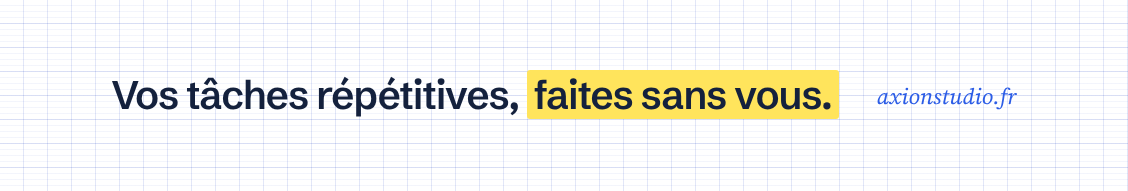
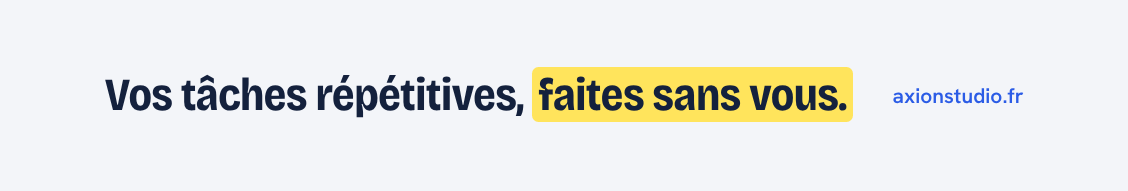
marketing: bannières LinkedIn et Google dans le style « le temps rendu »
- generate.mjs : fond gris bleuté, Bricolage Grotesque et Hanken
  Grotesk, surligneur, carte « Temps rendu chaque semaine » avec la
  semaine type hachurée (profil LinkedIn, publication Google)
- 6 visuels régénérés en taille exacte et en @2x (logo inchangé)
- polices Schibsted Grotesk et Source Serif 4 retirées : plus rien ne
  les utilise ; charte, passation et README mis à jour

Claude-Session: https://claude.ai/code/session_019bF3gSjhyBtiLCpN3yagxy

diff --git a/marketing/banners/google-publication-audit-1200x900.html b/marketing/banners/google-publication-audit-1200x900.html
@@ -1,25 +1,49 @@
 <!doctype html><html lang="fr"><head><meta charset="utf-8"><style>
-@font-face{font-family:SG;src:url(file:///home/user/axion-studio/node_modules/@fontsource-variable/schibsted-grotesk/files/schibsted-grotesk-latin-wght-normal.woff2);font-weight:100 900}
-@font-face{font-family:SS;src:url(file:///home/user/axion-studio/node_modules/@fontsource-variable/source-serif-4/files/source-serif-4-latin-wght-normal.woff2);font-weight:100 900}
-@font-face{font-family:SS;font-style:italic;src:url(file:///home/user/axion-studio/node_modules/@fontsource-variable/source-serif-4/files/source-serif-4-latin-wght-italic.woff2);font-weight:100 900}
+@font-face{font-family:BG;src:url(file:///home/user/axion-studio/node_modules/@fontsource-variable/bricolage-grotesque/files/bricolage-grotesque-latin-wdth-normal.woff2);font-weight:200 800;font-stretch:75% 100%}
+@font-face{font-family:HG;src:url(file:///home/user/axion-studio/node_modules/@fontsource-variable/hanken-grotesk/files/hanken-grotesk-latin-wght-normal.woff2);font-weight:100 900}
 *{box-sizing:border-box;margin:0}
 html,body{width:1200px;height:900px;overflow:hidden}
-body{font-family:SG,Arial,sans-serif;color:#14213d;background:#ffffff;position:relative;
-background-image:linear-gradient(rgba(35,70,200,.13) 1px,transparent 1px),linear-gradient(90deg,rgba(35,70,200,.13) 1px,transparent 1px),linear-gradient(rgba(35,70,200,.055) 1px,transparent 1px);
-background-size:32px 32px,32px 32px,32px 8px;background-position:-1px -1px}
-.margin{position:absolute;top:0;bottom:0;left:150px;width:3px;background:rgba(217,61,99,.75)}
+body{font-family:HG,Arial,sans-serif;color:#14213d;background:#f3f5f9;position:relative}
 .brand{display:flex;align-items:center;gap:.45em;font-weight:600;letter-spacing:-.01em}
-.h{font-weight:600;letter-spacing:-.03em;line-height:1.02;text-wrap:balance}
-.serif{font-family:SS,Georgia,serif;color:#56627d}
-.note{font-family:SS,Georgia,serif;font-style:italic;color:#2b5ce6}
-.mark{background:#ffe45c;padding:0 .18em;border-radius:3px}
-.pill{display:inline-flex;align-items:center;background:#2b5ce6;color:#fff;border-radius:10px;font-weight:600}
+.h{font-family:BG,'Arial Narrow',sans-serif;font-weight:700;font-stretch:85%;letter-spacing:-.02em;line-height:1.02;text-wrap:balance}
+.lead{color:#56627d;line-height:1.45}
+.muted{color:#56627d}
+.eyebrow{color:#2b5ce6;font-weight:600;letter-spacing:.08em;text-transform:uppercase}
+.mark{background:#ffe45c;color:#14213d;padding:0 .14em;border-radius:.14em}
+.card{background:#ffffff;border:1px solid #d9e0ec;border-radius:18px}
+.day{font-size:.72em;font-weight:600;letter-spacing:.06em;text-transform:uppercase;color:#56627d;text-align:center}
+.blk{font-size:.78em;line-height:1.25;padding:.45em .5em;border:1px solid #d9e0ec;border-radius:.6em;background:#f3f5f9}
+.hatch{background:repeating-linear-gradient(-45deg,transparent 0 6px,#c3cde0 6px 7px),#ffffff;color:#56627d}
+.hatch s{text-decoration-color:#2b5ce6;text-decoration-thickness:1.5px}
+.pill{display:inline-flex;align-items:center;background:#2b5ce6;color:#fff;border-radius:999px;font-weight:600}
 .abs{position:absolute}
-</style></head><body><div class="margin"></div>
-      <div class="abs" style="left:200px;top:110px;right:100px">
-        <div class="brand" style="font-size:32px"><svg viewBox="0 0 210 175" height="46" aria-hidden="true"><g stroke="#2b5ce6" stroke-width="9" stroke-linecap="round"><line x1="66" y1="25" x2="23" y2="81"/><line x1="23" y1="81" x2="128" y2="81"/><line x1="128" y1="81" x2="68" y2="150"/></g><g fill="#2b5ce6"><circle cx="66" cy="25" r="18"/><circle cx="23" cy="81" r="18"/><circle cx="128" cy="81" r="18"/><circle cx="68" cy="150" r="18"/></g><path d="M95 22H148L190 86L148 152H95" fill="none" stroke="#14213d" stroke-width="18" stroke-linejoin="round"/></svg>Axion Studio</div>
-        <p class="h" style="font-size:84px;margin-top:40px">Audit <span class="mark">gratuit</span><br>de 30 minutes</p>
-        <p class="serif" style="font-size:32px;margin-top:30px;line-height:1.45">On repère ensemble les tâches répétitives qui vous coûtent du temps, et ce qui peut être automatisé.</p>
-        <p style="font-size:28px;margin-top:34px;line-height:1.6">Sans engagement · Projets dès 150 € · Réponse sous 48 h ouvrées</p>
+</style></head><body>
+      <div class="abs" style="left:90px;top:96px;width:560px">
+        <div class="brand" style="font-size:28px"><svg viewBox="0 0 210 175" height="38" aria-hidden="true"><g stroke="#2b5ce6" stroke-width="9" stroke-linecap="round"><line x1="66" y1="25" x2="23" y2="81"/><line x1="23" y1="81" x2="128" y2="81"/><line x1="128" y1="81" x2="68" y2="150"/></g><g fill="#2b5ce6"><circle cx="66" cy="25" r="18"/><circle cx="23" cy="81" r="18"/><circle cx="128" cy="81" r="18"/><circle cx="68" cy="150" r="18"/></g><path d="M95 22H148L190 86L148 152H95" fill="none" stroke="#14213d" stroke-width="18" stroke-linejoin="round"/></svg>Axion Studio</div>
+        <p class="h" style="font-size:96px;margin-top:40px">Audit <span class="mark">gratuit</span> de 30 minutes</p>
+        <p class="lead" style="font-size:28px;margin-top:28px">On repère ensemble les tâches répétitives qui vous coûtent du temps, et ce qui peut être automatisé.</p>
+        <p style="font-size:24px;margin-top:30px;line-height:1.7">Sans engagement<br>Projets dès 150 €<br>Réponse sous 48 h ouvrées</p>
       </div>
-      <p class="abs pill" style="left:200px;bottom:100px;font-size:30px;padding:18px 30px">Réserver sur axionstudio.fr/contact</p></body></html>
+      <div class="abs" style="right:80px;top:200px"><div class="card" style="font-size:17px;width:440px;padding:1.1em 1.2em 1.2em">
+  <p class="muted" style="font-size:.85em">Temps rendu chaque semaine</p>
+  <p class="h" style="font-size:3.1em;margin-top:.12em;line-height:1.1"><span class="mark">2 h 15</span></p>
+  <div style="display:grid;grid-template-columns:repeat(5,1fr);gap:.4em;margin-top:.9em;align-items:start">
+    <div style="display:grid;gap:.4em">
+      <p class="day">Lun</p>
+      <p class="blk" style="min-height:2.6em">Client</p><p class="blk hatch" style="min-height:3.5454545454545454em"><s>Commandes</s></p>
+    </div><div style="display:grid;gap:.4em">
+      <p class="day">Mar</p>
+      <p class="blk" style="min-height:2.6em">Chantier</p><p class="blk hatch" style="min-height:2.8636363636363633em"><s>Relances</s></p>
+    </div><div style="display:grid;gap:.4em">
+      <p class="day">Mer</p>
+      <p class="blk hatch" style="min-height:4.227272727272727em"><s>E-mails</s></p>
+    </div><div style="display:grid;gap:.4em">
+      <p class="day">Jeu</p>
+      <p class="blk" style="min-height:2.6em">Devis</p><p class="blk" style="min-height:3.090909090909091em">Factures</p>
+    </div><div style="display:grid;gap:.4em">
+      <p class="day">Ven</p>
+      <p class="blk" style="min-height:2.6em">Chantier</p><p class="blk" style="min-height:2.409090909090909em">Agenda</p>
+    </div>
+  </div>
+</div></div>
+      <p class="abs pill" style="left:90px;bottom:90px;font-size:28px;padding:20px 34px">Réserver sur axionstudio.fr/contact</p></body></html>

diff --git a/marketing/banners/linkedin-profil-1584x396.html b/marketing/banners/linkedin-profil-1584x396.html
@@ -1,24 +1,47 @@
 <!doctype html><html lang="fr"><head><meta charset="utf-8"><style>
-@font-face{font-family:SG;src:url(file:///home/user/axion-studio/node_modules/@fontsource-variable/schibsted-grotesk/files/schibsted-grotesk-latin-wght-normal.woff2);font-weight:100 900}
-@font-face{font-family:SS;src:url(file:///home/user/axion-studio/node_modules/@fontsource-variable/source-serif-4/files/source-serif-4-latin-wght-normal.woff2);font-weight:100 900}
-@font-face{font-family:SS;font-style:italic;src:url(file:///home/user/axion-studio/node_modules/@fontsource-variable/source-serif-4/files/source-serif-4-latin-wght-italic.woff2);font-weight:100 900}
+@font-face{font-family:BG;src:url(file:///home/user/axion-studio/node_modules/@fontsource-variable/bricolage-grotesque/files/bricolage-grotesque-latin-wdth-normal.woff2);font-weight:200 800;font-stretch:75% 100%}
+@font-face{font-family:HG;src:url(file:///home/user/axion-studio/node_modules/@fontsource-variable/hanken-grotesk/files/hanken-grotesk-latin-wght-normal.woff2);font-weight:100 900}
 *{box-sizing:border-box;margin:0}
 html,body{width:1584px;height:396px;overflow:hidden}
-body{font-family:SG,Arial,sans-serif;color:#14213d;background:#ffffff;position:relative;
-background-image:linear-gradient(rgba(35,70,200,.13) 1px,transparent 1px),linear-gradient(90deg,rgba(35,70,200,.13) 1px,transparent 1px),linear-gradient(rgba(35,70,200,.055) 1px,transparent 1px);
-background-size:32px 32px,32px 32px,32px 8px;background-position:-1px -1px}
-.margin{position:absolute;top:0;bottom:0;left:430px;width:3px;background:rgba(217,61,99,.75)}
+body{font-family:HG,Arial,sans-serif;color:#14213d;background:#f3f5f9;position:relative}
 .brand{display:flex;align-items:center;gap:.45em;font-weight:600;letter-spacing:-.01em}
-.h{font-weight:600;letter-spacing:-.03em;line-height:1.02;text-wrap:balance}
-.serif{font-family:SS,Georgia,serif;color:#56627d}
-.note{font-family:SS,Georgia,serif;font-style:italic;color:#2b5ce6}
-.mark{background:#ffe45c;padding:0 .18em;border-radius:3px}
-.pill{display:inline-flex;align-items:center;background:#2b5ce6;color:#fff;border-radius:10px;font-weight:600}
+.h{font-family:BG,'Arial Narrow',sans-serif;font-weight:700;font-stretch:85%;letter-spacing:-.02em;line-height:1.02;text-wrap:balance}
+.lead{color:#56627d;line-height:1.45}
+.muted{color:#56627d}
+.eyebrow{color:#2b5ce6;font-weight:600;letter-spacing:.08em;text-transform:uppercase}
+.mark{background:#ffe45c;color:#14213d;padding:0 .14em;border-radius:.14em}
+.card{background:#ffffff;border:1px solid #d9e0ec;border-radius:18px}
+.day{font-size:.72em;font-weight:600;letter-spacing:.06em;text-transform:uppercase;color:#56627d;text-align:center}
+.blk{font-size:.78em;line-height:1.25;padding:.45em .5em;border:1px solid #d9e0ec;border-radius:.6em;background:#f3f5f9}
+.hatch{background:repeating-linear-gradient(-45deg,transparent 0 6px,#c3cde0 6px 7px),#ffffff;color:#56627d}
+.hatch s{text-decoration-color:#2b5ce6;text-decoration-thickness:1.5px}
+.pill{display:inline-flex;align-items:center;background:#2b5ce6;color:#fff;border-radius:999px;font-weight:600}
 .abs{position:absolute}
-</style></head><body><div class="margin"></div>
-      <div class="abs" style="left:470px;top:62px;right:90px">
-        <div class="brand" style="font-size:30px"><svg viewBox="0 0 210 175" height="40" aria-hidden="true"><g stroke="#2b5ce6" stroke-width="9" stroke-linecap="round"><line x1="66" y1="25" x2="23" y2="81"/><line x1="23" y1="81" x2="128" y2="81"/><line x1="128" y1="81" x2="68" y2="150"/></g><g fill="#2b5ce6"><circle cx="66" cy="25" r="18"/><circle cx="23" cy="81" r="18"/><circle cx="128" cy="81" r="18"/><circle cx="68" cy="150" r="18"/></g><path d="M95 22H148L190 86L148 152H95" fill="none" stroke="#14213d" stroke-width="18" stroke-linejoin="round"/></svg>Axion Studio</div>
-        <p class="h" style="font-size:58px;margin-top:22px;white-space:nowrap">Vos tâches répétitives, faites sans vous.</p>
-        <p class="serif" style="font-size:26px;margin-top:16px">Automatisation, IA et sites web pour les TPE, PME et indépendants</p>
+</style></head><body>
+      <div class="abs" style="left:470px;top:70px;width:660px">
+        <p class="eyebrow" style="font-size:17px">Automatisation pour TPE, PME et indépendants</p>
+        <p class="h" style="font-size:62px;margin-top:16px">Vos tâches répétitives,<br>faites sans vous.</p>
+        <div class="brand" style="font-size:26px;margin-top:30px"><svg viewBox="0 0 210 175" height="34" aria-hidden="true"><g stroke="#2b5ce6" stroke-width="9" stroke-linecap="round"><line x1="66" y1="25" x2="23" y2="81"/><line x1="23" y1="81" x2="128" y2="81"/><line x1="128" y1="81" x2="68" y2="150"/></g><g fill="#2b5ce6"><circle cx="66" cy="25" r="18"/><circle cx="23" cy="81" r="18"/><circle cx="128" cy="81" r="18"/><circle cx="68" cy="150" r="18"/></g><path d="M95 22H148L190 86L148 152H95" fill="none" stroke="#14213d" stroke-width="18" stroke-linejoin="round"/></svg>Axion Studio <span class="muted" style="font-weight:400;margin-left:.4em">axionstudio.fr</span></div>
       </div>
-      <p class="abs note" style="right:90px;bottom:36px;font-size:24px">axionstudio.fr <span style="color:#14213d;font-style:normal;font-family:SG">— audit gratuit de 30 min</span></p></body></html>
+      <div class="abs" style="right:50px;top:50px"><div class="card" style="font-size:15px;width:400px;padding:1.1em 1.2em 1.2em">
+  <p class="muted" style="font-size:.85em">Temps rendu chaque semaine</p>
+  <p class="h" style="font-size:3.1em;margin-top:.12em;line-height:1.1"><span class="mark">2 h 15</span></p>
+  <div style="display:grid;grid-template-columns:repeat(5,1fr);gap:.4em;margin-top:.9em;align-items:start">
+    <div style="display:grid;gap:.4em">
+      <p class="day">Lun</p>
+      <p class="blk" style="min-height:2.6em">Client</p><p class="blk hatch" style="min-height:3.5454545454545454em"><s>Commandes</s></p>
+    </div><div style="display:grid;gap:.4em">
+      <p class="day">Mar</p>
+      <p class="blk" style="min-height:2.6em">Chantier</p><p class="blk hatch" style="min-height:2.8636363636363633em"><s>Relances</s></p>
+    </div><div style="display:grid;gap:.4em">
+      <p class="day">Mer</p>
+      <p class="blk hatch" style="min-height:4.227272727272727em"><s>E-mails</s></p>
+    </div><div style="display:grid;gap:.4em">
+      <p class="day">Jeu</p>
+      <p class="blk" style="min-height:2.6em">Devis</p><p class="blk" style="min-height:3.090909090909091em">Factures</p>
+    </div><div style="display:grid;gap:.4em">
+      <p class="day">Ven</p>
+      <p class="blk" style="min-height:2.6em">Chantier</p><p class="blk" style="min-height:2.409090909090909em">Agenda</p>
+    </div>
+  </div>
+</div></div></body></html>

diff --git a/marketing/banners/linkedin-publication-article-1200x627.html b/marketing/banners/linkedin-publication-article-1200x627.html
@@ -1,25 +1,27 @@
 <!doctype html><html lang="fr"><head><meta charset="utf-8"><style>
-@font-face{font-family:SG;src:url(file:///home/user/axion-studio/node_modules/@fontsource-variable/schibsted-grotesk/files/schibsted-grotesk-latin-wght-normal.woff2);font-weight:100 900}
-@font-face{font-family:SS;src:url(file:///home/user/axion-studio/node_modules/@fontsource-variable/source-serif-4/files/source-serif-4-latin-wght-normal.woff2);font-weight:100 900}
-@font-face{font-family:SS;font-style:italic;src:url(file:///home/user/axion-studio/node_modules/@fontsource-variable/source-serif-4/files/source-serif-4-latin-wght-italic.woff2);font-weight:100 900}
+@font-face{font-family:BG;src:url(file:///home/user/axion-studio/node_modules/@fontsource-variable/bricolage-grotesque/files/bricolage-grotesque-latin-wdth-normal.woff2);font-weight:200 800;font-stretch:75% 100%}
+@font-face{font-family:HG;src:url(file:///home/user/axion-studio/node_modules/@fontsource-variable/hanken-grotesk/files/hanken-grotesk-latin-wght-normal.woff2);font-weight:100 900}
 *{box-sizing:border-box;margin:0}
 html,body{width:1200px;height:627px;overflow:hidden}
-body{font-family:SG,Arial,sans-serif;color:#14213d;background:#ffffff;position:relative;
-background-image:linear-gradient(rgba(35,70,200,.13) 1px,transparent 1px),linear-gradient(90deg,rgba(35,70,200,.13) 1px,transparent 1px),linear-gradient(rgba(35,70,200,.055) 1px,transparent 1px);
-background-size:32px 32px,32px 32px,32px 8px;background-position:-1px -1px}
-.margin{position:absolute;top:0;bottom:0;left:150px;width:3px;background:rgba(217,61,99,.75)}
+body{font-family:HG,Arial,sans-serif;color:#14213d;background:#f3f5f9;position:relative}
 .brand{display:flex;align-items:center;gap:.45em;font-weight:600;letter-spacing:-.01em}
-.h{font-weight:600;letter-spacing:-.03em;line-height:1.02;text-wrap:balance}
-.serif{font-family:SS,Georgia,serif;color:#56627d}
-.note{font-family:SS,Georgia,serif;font-style:italic;color:#2b5ce6}
-.mark{background:#ffe45c;padding:0 .18em;border-radius:3px}
-.pill{display:inline-flex;align-items:center;background:#2b5ce6;color:#fff;border-radius:10px;font-weight:600}
+.h{font-family:BG,'Arial Narrow',sans-serif;font-weight:700;font-stretch:85%;letter-spacing:-.02em;line-height:1.02;text-wrap:balance}
+.lead{color:#56627d;line-height:1.45}
+.muted{color:#56627d}
+.eyebrow{color:#2b5ce6;font-weight:600;letter-spacing:.08em;text-transform:uppercase}
+.mark{background:#ffe45c;color:#14213d;padding:0 .14em;border-radius:.14em}
+.card{background:#ffffff;border:1px solid #d9e0ec;border-radius:18px}
+.day{font-size:.72em;font-weight:600;letter-spacing:.06em;text-transform:uppercase;color:#56627d;text-align:center}
+.blk{font-size:.78em;line-height:1.25;padding:.45em .5em;border:1px solid #d9e0ec;border-radius:.6em;background:#f3f5f9}
+.hatch{background:repeating-linear-gradient(-45deg,transparent 0 6px,#c3cde0 6px 7px),#ffffff;color:#56627d}
+.hatch s{text-decoration-color:#2b5ce6;text-decoration-thickness:1.5px}
+.pill{display:inline-flex;align-items:center;background:#2b5ce6;color:#fff;border-radius:999px;font-weight:600}
 .abs{position:absolute}
-</style></head><body><div class="margin"></div>
-      <div class="abs" style="left:200px;top:70px;right:80px">
-        <p class="note" style="font-size:26px">Nouvel article · Blog Axion Studio</p>
-        <p class="h" style="font-size:66px;margin-top:22px">Combien coûte l’automatisation pour une petite entreprise ?</p>
-        <p class="serif" style="font-size:28px;margin-top:24px">Ce qui fait varier le prix, les coûts à prévoir et une méthode simple pour savoir si c’est rentable.</p>
-      </div>
-      <div class="abs brand" style="left:200px;bottom:56px;font-size:28px"><svg viewBox="0 0 210 175" height="38" aria-hidden="true"><g stroke="#2b5ce6" stroke-width="9" stroke-linecap="round"><line x1="66" y1="25" x2="23" y2="81"/><line x1="23" y1="81" x2="128" y2="81"/><line x1="128" y1="81" x2="68" y2="150"/></g><g fill="#2b5ce6"><circle cx="66" cy="25" r="18"/><circle cx="23" cy="81" r="18"/><circle cx="128" cy="81" r="18"/><circle cx="68" cy="150" r="18"/></g><path d="M95 22H148L190 86L148 152H95" fill="none" stroke="#14213d" stroke-width="18" stroke-linejoin="round"/></svg>Axion Studio</div>
-      <p class="abs" style="right:80px;bottom:62px;font-size:24px;color:#2b5ce6;font-weight:600">axionstudio.fr/blog</p></body></html>
+</style></head><body>
+      <div class="abs card" style="left:56px;top:56px;right:56px;bottom:56px;padding:58px 64px">
+        <p class="eyebrow" style="font-size:19px">Nouvel article · Blog Axion Studio</p>
+        <p class="h" style="font-size:70px;margin-top:20px;max-width:900px">Combien coûte l’automatisation pour une petite entreprise ?</p>
+        <p class="lead" style="font-size:26px;margin-top:24px;max-width:860px">Ce qui fait varier le prix, les coûts à prévoir et une méthode simple pour savoir si c’est rentable.</p>
+        <div class="abs brand" style="left:64px;bottom:48px;font-size:26px"><svg viewBox="0 0 210 175" height="34" aria-hidden="true"><g stroke="#2b5ce6" stroke-width="9" stroke-linecap="round"><line x1="66" y1="25" x2="23" y2="81"/><line x1="23" y1="81" x2="128" y2="81"/><line x1="128" y1="81" x2="68" y2="150"/></g><g fill="#2b5ce6"><circle cx="66" cy="25" r="18"/><circle cx="23" cy="81" r="18"/><circle cx="128" cy="81" r="18"/><circle cx="68" cy="150" r="18"/></g><path d="M95 22H148L190 86L148 152H95" fill="none" stroke="#14213d" stroke-width="18" stroke-linejoin="round"/></svg>Axion Studio</div>
+        <p class="abs" style="right:64px;bottom:52px;font-size:23px;color:#2b5ce6;font-weight:600">axionstudio.fr/blog</p>
+      </div></body></html>

diff --git a/marketing/banners/google-couverture-1024x576.html b/marketing/banners/google-couverture-1024x576.html
@@ -1,23 +1,26 @@
 <!doctype html><html lang="fr"><head><meta charset="utf-8"><style>
-@font-face{font-family:SG;src:url(file:///home/user/axion-studio/node_modules/@fontsource-variable/schibsted-grotesk/files/schibsted-grotesk-latin-wght-normal.woff2);font-weight:100 900}
-@font-face{font-family:SS;src:url(file:///home/user/axion-studio/node_modules/@fontsource-variable/source-serif-4/files/source-serif-4-latin-wght-normal.woff2);font-weight:100 900}
-@font-face{font-family:SS;font-style:italic;src:url(file:///home/user/axion-studio/node_modules/@fontsource-variable/source-serif-4/files/source-serif-4-latin-wght-italic.woff2);font-weight:100 900}
+@font-face{font-family:BG;src:url(file:///home/user/axion-studio/node_modules/@fontsource-variable/bricolage-grotesque/files/bricolage-grotesque-latin-wdth-normal.woff2);font-weight:200 800;font-stretch:75% 100%}
+@font-face{font-family:HG;src:url(file:///home/user/axion-studio/node_modules/@fontsource-variable/hanken-grotesk/files/hanken-grotesk-latin-wght-normal.woff2);font-weight:100 900}
 *{box-sizing:border-box;margin:0}
 html,body{width:1024px;height:576px;overflow:hidden}
-body{font-family:SG,Arial,sans-serif;color:#14213d;background:#ffffff;position:relative;
-background-image:linear-gradient(rgba(35,70,200,.13) 1px,transparent 1px),linear-gradient(90deg,rgba(35,70,200,.13) 1px,transparent 1px),linear-gradient(rgba(35,70,200,.055) 1px,transparent 1px);
-background-size:32px 32px,32px 32px,32px 8px;background-position:-1px -1px}
-
+body{font-family:HG,Arial,sans-serif;color:#14213d;background:#f3f5f9;position:relative}
 .brand{display:flex;align-items:center;gap:.45em;font-weight:600;letter-spacing:-.01em}
-.h{font-weight:600;letter-spacing:-.03em;line-height:1.02;text-wrap:balance}
-.serif{font-family:SS,Georgia,serif;color:#56627d}
-.note{font-family:SS,Georgia,serif;font-style:italic;color:#2b5ce6}
-.mark{background:#ffe45c;padding:0 .18em;border-radius:3px}
-.pill{display:inline-flex;align-items:center;background:#2b5ce6;color:#fff;border-radius:10px;font-weight:600}
+.h{font-family:BG,'Arial Narrow',sans-serif;font-weight:700;font-stretch:85%;letter-spacing:-.02em;line-height:1.02;text-wrap:balance}
+.lead{color:#56627d;line-height:1.45}
+.muted{color:#56627d}
+.eyebrow{color:#2b5ce6;font-weight:600;letter-spacing:.08em;text-transform:uppercase}
+.mark{background:#ffe45c;color:#14213d;padding:0 .14em;border-radius:.14em}
+.card{background:#ffffff;border:1px solid #d9e0ec;border-radius:18px}
+.day{font-size:.72em;font-weight:600;letter-spacing:.06em;text-transform:uppercase;color:#56627d;text-align:center}
+.blk{font-size:.78em;line-height:1.25;padding:.45em .5em;border:1px solid #d9e0ec;border-radius:.6em;background:#f3f5f9}
+.hatch{background:repeating-linear-gradient(-45deg,transparent 0 6px,#c3cde0 6px 7px),#ffffff;color:#56627d}
+.hatch s{text-decoration-color:#2b5ce6;text-decoration-thickness:1.5px}
+.pill{display:inline-flex;align-items:center;background:#2b5ce6;color:#fff;border-radius:999px;font-weight:600}
 .abs{position:absolute}
 </style></head><body>
-      <div class="abs" style="left:0;right:0;top:0;bottom:0;display:flex;flex-direction:column;align-items:center;justify-content:center;text-align:center;padding:0 120px">
-        <div class="brand" style="font-size:30px"><svg viewBox="0 0 210 175" height="42" aria-hidden="true"><g stroke="#2b5ce6" stroke-width="9" stroke-linecap="round"><line x1="66" y1="25" x2="23" y2="81"/><line x1="23" y1="81" x2="128" y2="81"/><line x1="128" y1="81" x2="68" y2="150"/></g><g fill="#2b5ce6"><circle cx="66" cy="25" r="18"/><circle cx="23" cy="81" r="18"/><circle cx="128" cy="81" r="18"/><circle cx="68" cy="150" r="18"/></g><path d="M95 22H148L190 86L148 152H95" fill="none" stroke="#14213d" stroke-width="18" stroke-linejoin="round"/></svg>Axion Studio</div>
-        <p class="h" style="font-size:56px;margin-top:22px">Vos tâches répétitives, faites sans vous.</p>
-        <p class="serif" style="font-size:23px;margin-top:18px;text-wrap:balance">Automatisation et IA pour TPE, PME et indépendants, Val-d’Oise et à distance</p>
+      <div class="abs" style="inset:0;display:flex;flex-direction:column;align-items:center;justify-content:center;text-align:center;padding:0 130px">
+        <div class="brand" style="font-size:28px"><svg viewBox="0 0 210 175" height="38" aria-hidden="true"><g stroke="#2b5ce6" stroke-width="9" stroke-linecap="round"><line x1="66" y1="25" x2="23" y2="81"/><line x1="23" y1="81" x2="128" y2="81"/><line x1="128" y1="81" x2="68" y2="150"/></g><g fill="#2b5ce6"><circle cx="66" cy="25" r="18"/><circle cx="23" cy="81" r="18"/><circle cx="128" cy="81" r="18"/><circle cx="68" cy="150" r="18"/></g><path d="M95 22H148L190 86L148 152H95" fill="none" stroke="#14213d" stroke-width="18" stroke-linejoin="round"/></svg>Axion Studio</div>
+        <p class="h" style="font-size:66px;margin-top:22px">Vos tâches répétitives, faites sans vous.</p>
+        <p class="lead" style="font-size:23px;margin-top:18px;text-wrap:balance">Automatisation et IA pour TPE, PME et indépendants, Val-d’Oise et à distance</p>
+        <p style="font-size:22px;margin-top:26px"><span class="mark" style="font-weight:700">2 h 15</span> rendues chaque semaine, en moyenne indicative</p>
       </div></body></html>

diff --git a/marketing/banners/linkedin-page-1128x191.html b/marketing/banners/linkedin-page-1128x191.html
@@ -1,22 +1,24 @@
 <!doctype html><html lang="fr"><head><meta charset="utf-8"><style>
-@font-face{font-family:SG;src:url(file:///home/user/axion-studio/node_modules/@fontsource-variable/schibsted-grotesk/files/schibsted-grotesk-latin-wght-normal.woff2);font-weight:100 900}
-@font-face{font-family:SS;src:url(file:///home/user/axion-studio/node_modules/@fontsource-variable/source-serif-4/files/source-serif-4-latin-wght-normal.woff2);font-weight:100 900}
-@font-face{font-family:SS;font-style:italic;src:url(file:///home/user/axion-studio/node_modules/@fontsource-variable/source-serif-4/files/source-serif-4-latin-wght-italic.woff2);font-weight:100 900}
+@font-face{font-family:BG;src:url(file:///home/user/axion-studio/node_modules/@fontsource-variable/bricolage-grotesque/files/bricolage-grotesque-latin-wdth-normal.woff2);font-weight:200 800;font-stretch:75% 100%}
+@font-face{font-family:HG;src:url(file:///home/user/axion-studio/node_modules/@fontsource-variable/hanken-grotesk/files/hanken-grotesk-latin-wght-normal.woff2);font-weight:100 900}
 *{box-sizing:border-box;margin:0}
 html,body{width:1128px;height:191px;overflow:hidden}
-body{font-family:SG,Arial,sans-serif;color:#14213d;background:#ffffff;position:relative;
-background-image:linear-gradient(rgba(35,70,200,.13) 1px,transparent 1px),linear-gradient(90deg,rgba(35,70,200,.13) 1px,transparent 1px),linear-gradient(rgba(35,70,200,.055) 1px,transparent 1px);
-background-size:24px 24px,24px 24px,24px 6px;background-position:-1px -1px}
-
+body{font-family:HG,Arial,sans-serif;color:#14213d;background:#f3f5f9;position:relative}
 .brand{display:flex;align-items:center;gap:.45em;font-weight:600;letter-spacing:-.01em}
-.h{font-weight:600;letter-spacing:-.03em;line-height:1.02;text-wrap:balance}
-.serif{font-family:SS,Georgia,serif;color:#56627d}
-.note{font-family:SS,Georgia,serif;font-style:italic;color:#2b5ce6}
-.mark{background:#ffe45c;padding:0 .18em;border-radius:3px}
-.pill{display:inline-flex;align-items:center;background:#2b5ce6;color:#fff;border-radius:10px;font-weight:600}
+.h{font-family:BG,'Arial Narrow',sans-serif;font-weight:700;font-stretch:85%;letter-spacing:-.02em;line-height:1.02;text-wrap:balance}
+.lead{color:#56627d;line-height:1.45}
+.muted{color:#56627d}
+.eyebrow{color:#2b5ce6;font-weight:600;letter-spacing:.08em;text-transform:uppercase}
+.mark{background:#ffe45c;color:#14213d;padding:0 .14em;border-radius:.14em}
+.card{background:#ffffff;border:1px solid #d9e0ec;border-radius:18px}
+.day{font-size:.72em;font-weight:600;letter-spacing:.06em;text-transform:uppercase;color:#56627d;text-align:center}
+.blk{font-size:.78em;line-height:1.25;padding:.45em .5em;border:1px solid #d9e0ec;border-radius:.6em;background:#f3f5f9}
+.hatch{background:repeating-linear-gradient(-45deg,transparent 0 6px,#c3cde0 6px 7px),#ffffff;color:#56627d}
+.hatch s{text-decoration-color:#2b5ce6;text-decoration-thickness:1.5px}
+.pill{display:inline-flex;align-items:center;background:#2b5ce6;color:#fff;border-radius:999px;font-weight:600}
 .abs{position:absolute}
 </style></head><body>
-      <div class="abs" style="left:0;right:0;top:0;bottom:0;display:flex;align-items:center;justify-content:center;gap:38px">
-        <p class="h" style="font-size:40px">Vos tâches répétitives, <span class="mark">faites sans vous.</span></p>
-        <p class="note" style="font-size:22px;white-space:nowrap">axionstudio.fr</p>
+      <div class="abs" style="inset:0;display:flex;align-items:center;justify-content:center;gap:40px">
+        <p class="h" style="font-size:46px">Vos tâches répétitives, <span class="mark">faites sans vous.</span></p>
+        <p style="font-size:21px;font-weight:600;color:#2b5ce6;white-space:nowrap">axionstudio.fr</p>
       </div></body></html>

diff --git a/docs/HANDOFF.md b/docs/HANDOFF.md
@@ -68,7 +68,7 @@ automatisations/n8n/             workflows n8n de prospection (collecte SIRENE +
 
 - Identité « **le temps rendu** » (depuis novembre 2026, remplace le cahier Seyès) : fond gris bleuté, cartes blanches arrondies, boutons en pilule, surligneur jaune pour le temps gagné, hachures pour ce qui est automatisé. Tout est détaillé dans `docs/brand-guidelines.md` (v2).
 - Couleurs : bleu #2B5CE6, encre #14213D, surligneur #FFE45C, hachures #C3CDE0, vert #1D7A4B, fond de page #F3F5F9, cartes #FFFFFF, texte secondaire #56627D, bordures #D9E0EC, erreur #B42318.
-- Polices hébergées sur le site : Bricolage Grotesque (titres, gros chiffres), Hanken Grotesk (textes et interface), Atkinson Hyperlegible (mode accessibilité). Les anciennes (Schibsted Grotesk, Source Serif 4) restent installées pour les bannières de `marketing/banners/`, encore dans l'ancienne identité.
+- Polices hébergées sur le site : Bricolage Grotesque (titres, gros chiffres), Hanken Grotesk (textes et interface), Atkinson Hyperlegible (mode accessibilité). Les bannières de `marketing/banners/` utilisent les mêmes.
 - **Thème clair par défaut**, avec un bouton thème sombre et un panneau d'accessibilité (taille du texte, contraste, police lisible, espacement, liens soulignés, animations réduites). Les réglages sont posés en attributs `data-*` sur `<html>` par un script en ligne dans `index.html`.
 - Animations d'apparition (`useReveal`), qui respectent `prefers-reduced-motion`.
 - Ombres limitées à trois jetons (`shadow-card`, `shadow-float`, `shadow-overlay`) ; couleur du logo `--c-logo`. Boutons avec états survol, appui, focus (contour de 3 px) et désactivé.

diff --git a/marketing/banners/README.md b/marketing/banners/README.md
@@ -1,6 +1,6 @@
 # Bannières Axion Studio
 
-Générées avec le skill `design` (banner design), aux couleurs du site. Régénérer : `node marketing/banners/generate.mjs`.
+Style « le temps rendu » (charte v2, `docs/brand-guidelines.md`) : fond gris bleuté, polices Bricolage Grotesque et Hanken Grotesk, surligneur pour le temps gagné, semaine type hachurée. Régénérer : `node marketing/banners/generate.mjs`.
 Chaque visuel existe en taille exacte et en `@2x` (plus net sur les écrans haute définition, même proportion).
 
 | Fichier | Où l'utiliser |
@@ -12,5 +12,5 @@ Chaque visuel existe en taille exacte et en `@2x` (plus net sur les écrans haut
 | `google-logo-720x720` | Google Business Profile → Photos → Logo |
 | `google-publication-audit-1200x900` | Google Business Profile → Ajouter une mise à jour / une offre |
 
-Zones sûres respectées : sur le profil LinkedIn, la photo recouvre le coin inférieur gauche (rien d'important à
-gauche de la marge rouge) ; la couverture Google est centrée car Google la recadre selon l'écran.
+Zones sûres respectées : sur le profil LinkedIn, la photo recouvre le coin inférieur gauche (rien d'important à
+gauche de 440 px) ; la couverture Google est centrée car Google la recadre selon l'écran.

diff --git a/docs/brand-guidelines.md b/docs/brand-guidelines.md
@@ -168,4 +168,4 @@ Ombres : `shadow-card` (cartes), `shadow-float` (bulle du chat), `shadow-overlay
 
 ## Usage
 - Toute nouvelle page ou visuel respecte ce document ; en cas de doute, la valeur de `src/index.css` fait foi.
-- Bannières et visuels de réseaux sociaux : `marketing/banners/` (script de génération inclus). Elles sont encore dans l'identité v1 (Seyès) et sont à refaire.
+- Bannières et visuels de réseaux sociaux : `marketing/banners/` (script de génération inclus), dans l'identité v2.
